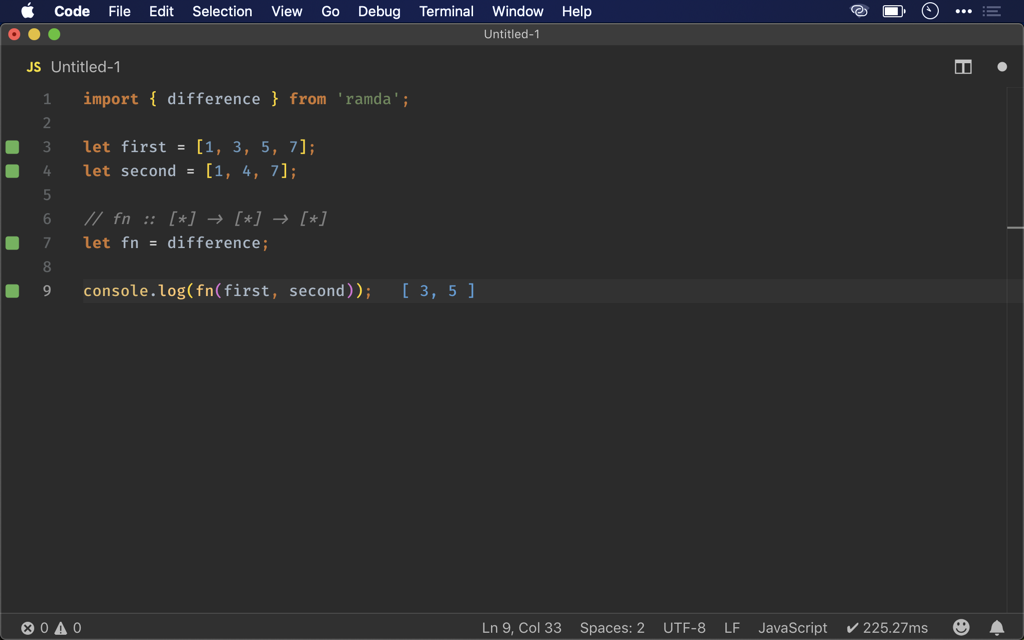
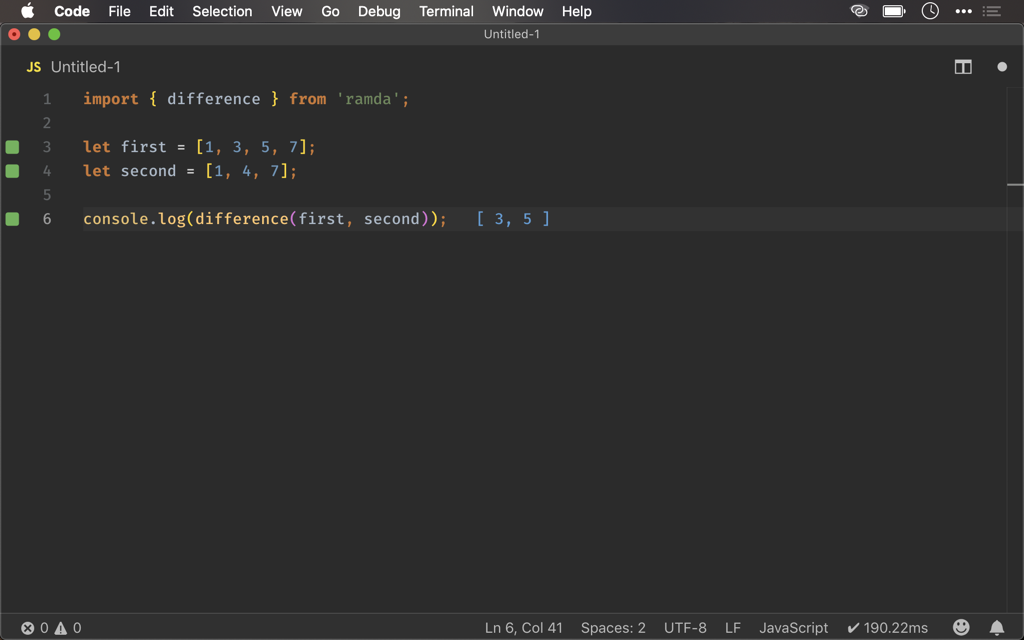
Ramda 之 difference()

diff --git a/source/_posts/ramda/difference.md b/source/_posts/ramda/difference.md
@@ -24,10 +24,7 @@ import { difference } from 'ramda';
 let first = [1, 3, 5, 7];
 let second = [1, 4, 7];
 
-// fn :: [*] -> [*] -> [*]
-let fn = difference;
-
-console.log(fn(first, second)); 
+console.log(difference(first, second)); 
 ```
 
 想知道 `first` array 哪些 element 不存在於 `second` array，Ramda 提供了 `difference()`。
@@ -59,10 +56,7 @@ let second = [
   { firstName: 'Kevin', lastName: 'Yang'},
 ];
 
-// fn :: [*] -> [*] -> [*]
-let fn = difference;
-
-console.dir(fn(first, second)); 
+console.dir(difference(first, second)); 
 ```
 
 若 `first` array 的 element 為 object，想得知不存在於 `second` array 的 object 有哪些，`difference()` 依然適用。
@@ -79,4 +73,3 @@ console.dir(fn(first, second));
 ## Reference
 
 [Ramda](https://ramdajs.com), [difference()](https://ramdajs.com/docs/#difference)
-
